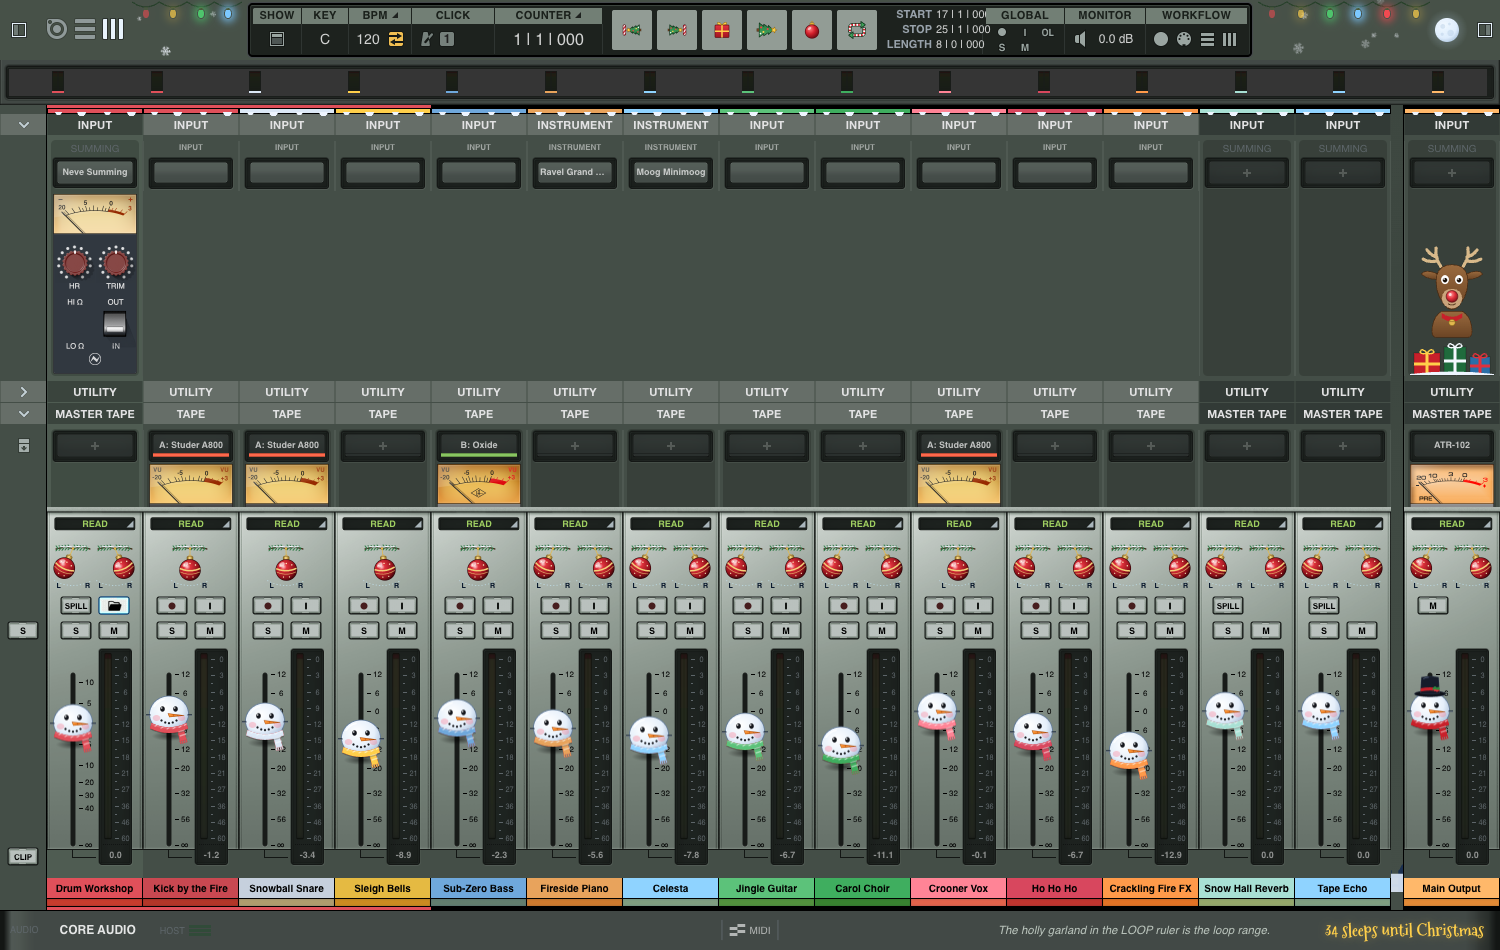
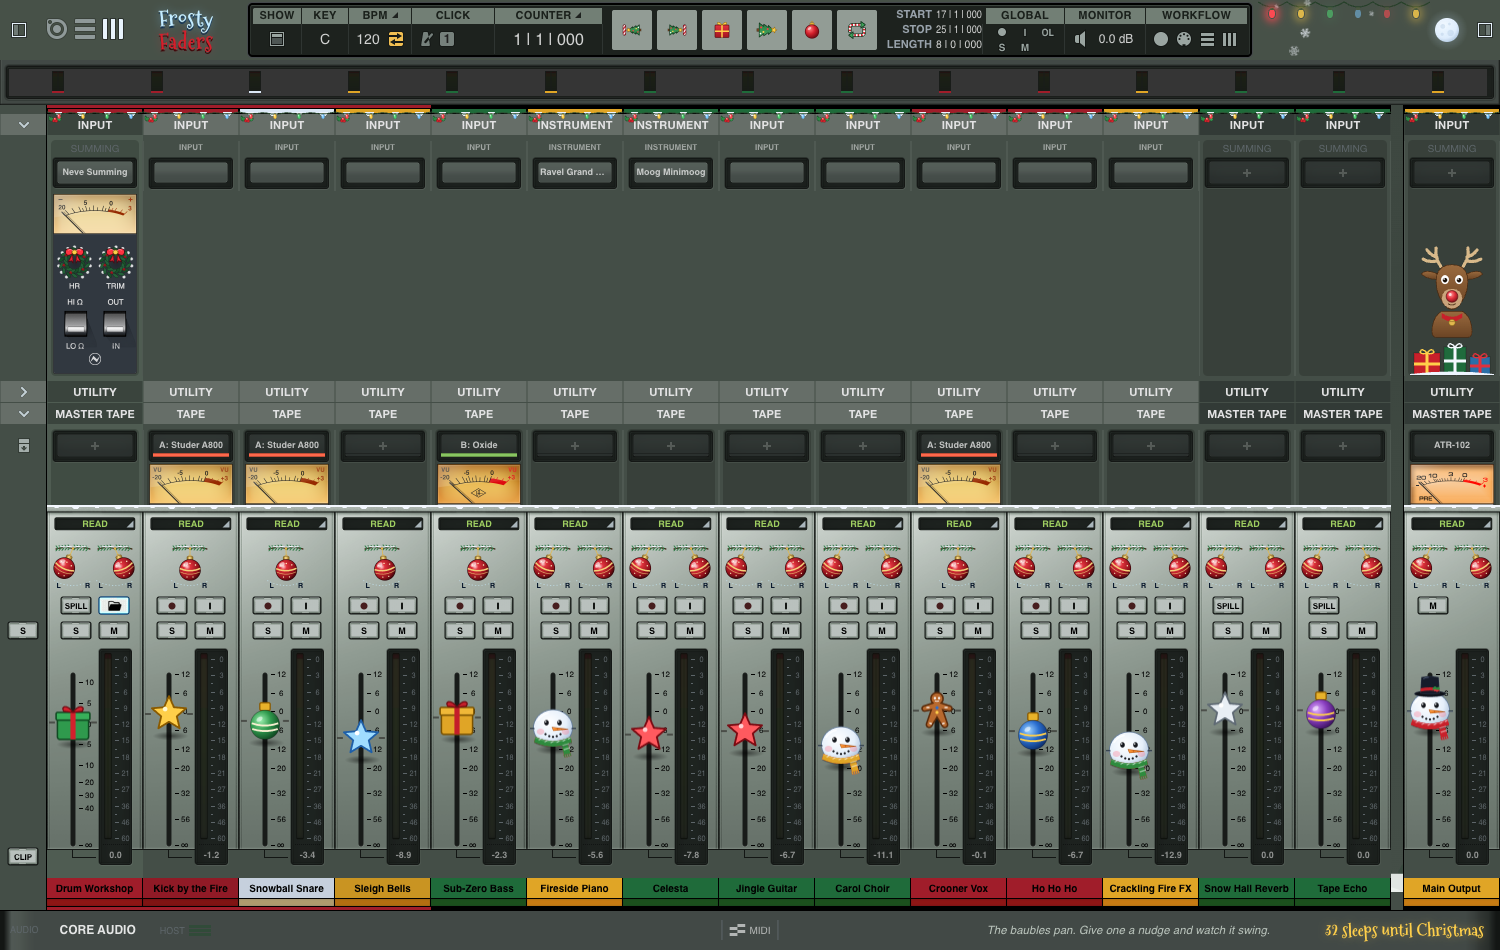
docs: Replaced the screenshots with current ones and added the timeline.

diff --git a/README.md b/README.md
@@ -6,6 +6,8 @@ A holiday-themed LUNA Add On. LUNA's Timeline, Mixer, MIDI Editor, Browser and F
 
 It isn't a skin over a screenshot. Every control edits the session you have open.
 
+![Frosty Faders timeline](images/timeline.png)
+
 ![Frosty Faders mixer](images/mixer.png)
 
 ## Requirements
